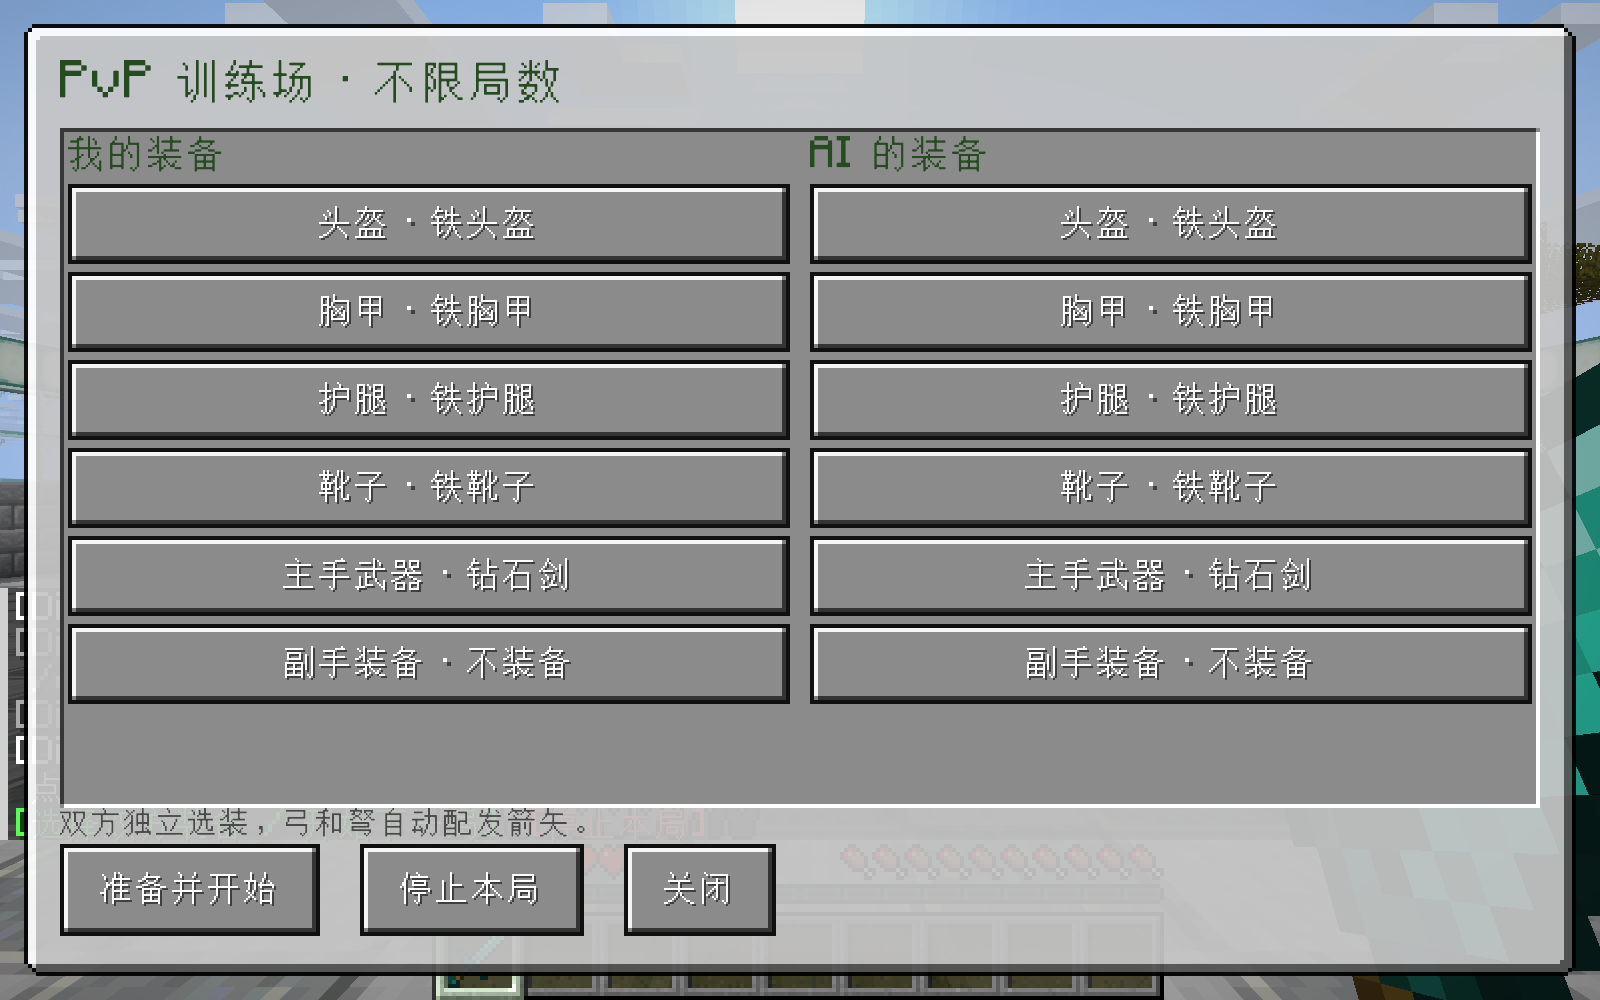
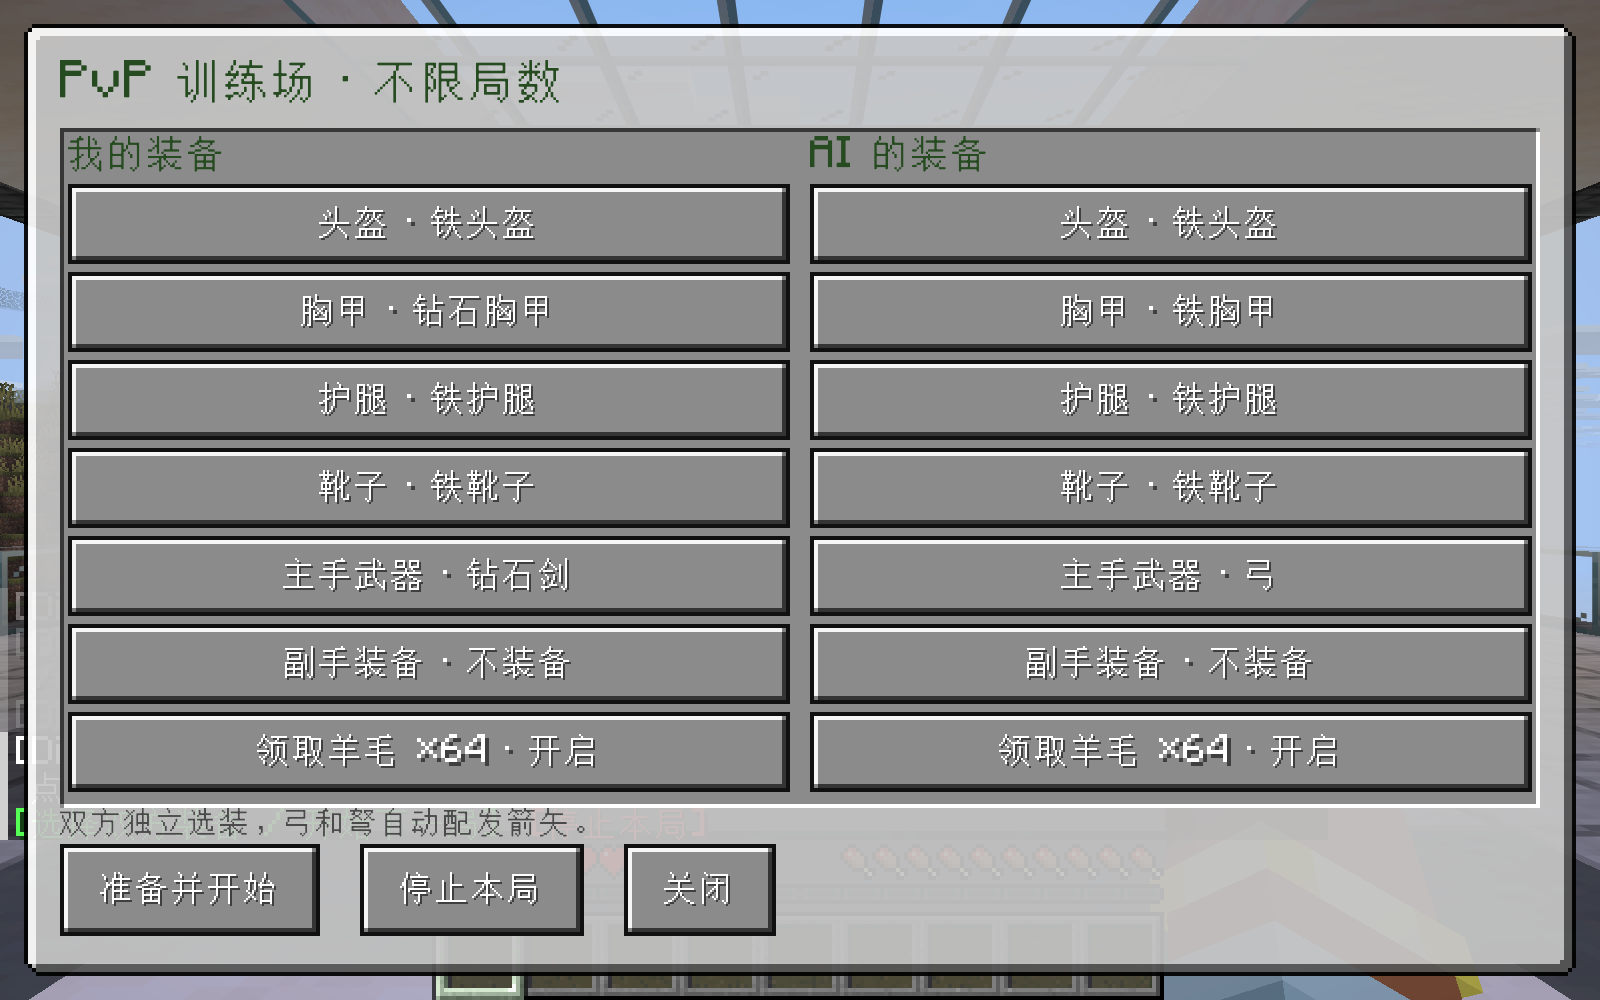
Finalize 1.0.23 notes and verified ranged PvP map documentation [skip ci]

diff --git a/docs/releases/1.0.23.md b/docs/releases/1.0.23.md
@@ -35,3 +35,5 @@
 - 新增带顶棚、灯光和玻璃护栏的出生/候战大厅，进入世界和重生返回大厅。保持每局最多三分钟、死亡立即结束和无限局数。
 - 进入地图时重置装备选项、羊毛选项和累计统计；同次游玩保留。LDLib2 HUD 展示总局数、玩家胜率、平均击杀和被击杀时间。
 - 原五场真人对练共记录 76 条动作样本，训练候选单独保留；正式模型仍使用已经通过实际对练的权重，不用拟合指标代替战斗胜率。
+
+原生回归：连续两次贴身后拉开距离并恢复射箭（含贴墙场景）、真实箭矢命中、双方羊毛领取及原生放置/破坏、永久场地保护、下一局羊毛清理均已通过。

diff --git a/docs/FEATURES.md b/docs/FEATURES.md
@@ -527,3 +527,5 @@ DivZero is open source under the [Apache License 2.0](https://github.com/gaoshan
 ### PvP 训练地图
 
 [地图说明与装备面板](PVP_TRAINING_MAP.md)：不限局数、每局最多三分钟，玩家与 AI 独立选择武器、护甲和副手，LDLib2 HUD 显示总局数、玩家胜率、平均击杀与被击杀时间。每次进入地图重置装备和统计；同次游玩的下一局与重生保留。地图标记自动识别，无需额外 JVM 参数。
+
+PvP 地图追加：副手下方可分别选择每局领取 64 个羊毛；场内支持原生搭建/拆除羊毛并在开局清理，永久场地与新增候战大厅受保护。地图使用普通 DivZero，不需要专版 JAR。

diff --git a/docs/PVP_TRAINING_MAP.md b/docs/PVP_TRAINING_MAP.md
@@ -34,4 +34,6 @@
 
 ![MC 主题装备面板，UI 尺寸 4](images/native-pvp-loadouts.png)
 
-本次追加远程贴身修复、羊毛原生交互及出生大厅；新增场景以本次原生验证记录为准。
+本次追加原生验证通过：弓手连续两次遭遇贴身后恢复射箭，最大拉开距离约 9.26 格，记录到实际箭矢命中；包含第二次被压到墙边的回归。原生放置羊毛实际消耗物品、羊毛可拆、永久地板不可拆、下一局遗留羊毛清理均通过。候战大厅由服务器管理，不授予玩家 OP。自动测试仍为 FIXTURE_ONLY，不属于真人战绩。
+
+![候战大厅与 HUD（自动测试示意）](images/native-pvp-lobby.png)
